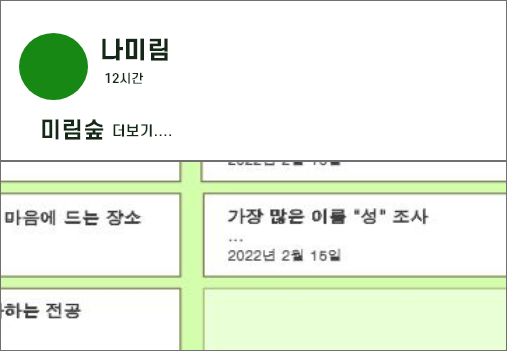
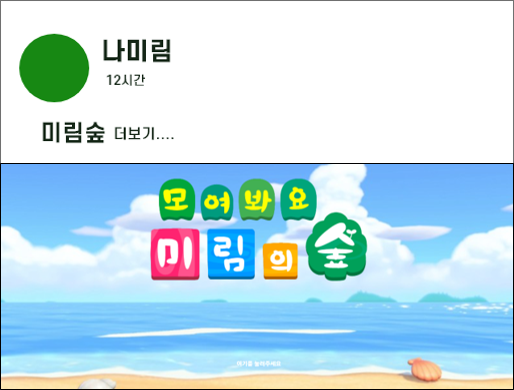
미림인 테스트 결과창

diff --git a/MirimTest/ResultTest.css b/MirimTest/ResultTest.css
@@ -12,7 +12,7 @@ body {
 #txt1{
     float: right;
 
-    margin-top: -1100px;
+    margin-top: -1190px;
     margin-right: 170px;
     
     font-weight: bold;
@@ -22,7 +22,7 @@ body {
 #post{
     float: right;
 
-    margin-top: -1030px;
+    margin-top: -1100px;
     margin-right: 7px;
 }
 

diff --git a/MirimTest/ResultTest.html b/MirimTest/ResultTest.html
@@ -10,7 +10,7 @@
             
         </div>        
 
-        <span id="txt1">추천 게시글</span>
+        <span id="txt1">돌아가는 게시글</span>
         <a href="/">
             <img src="../image/ResultTest_post.png" id="post">
         </a>
